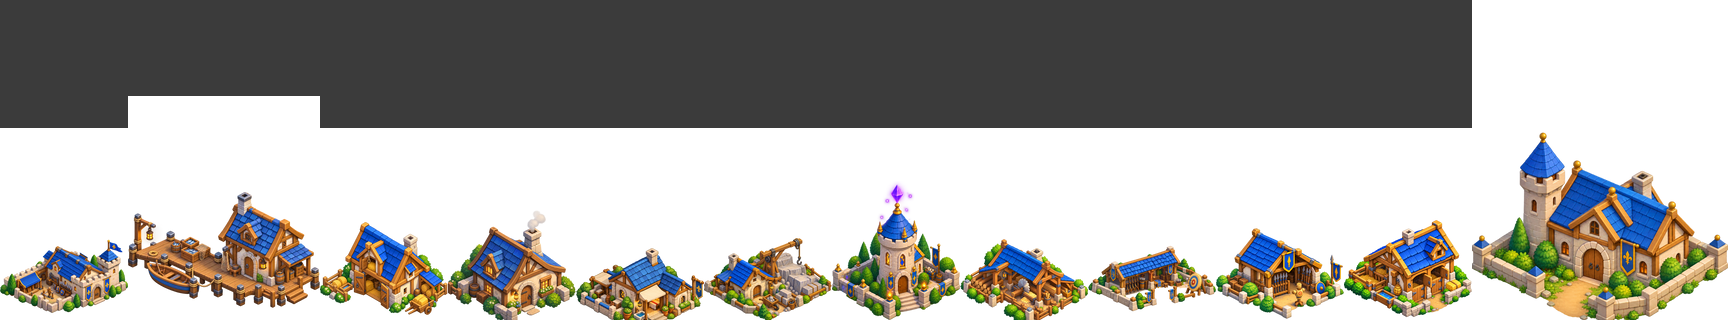
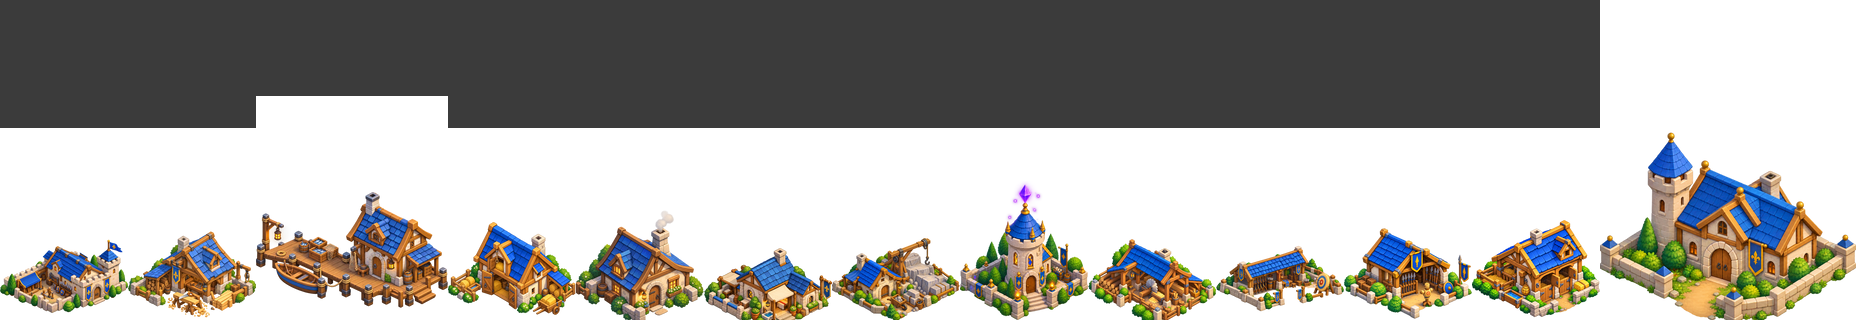
art(city): Carpenter

diff --git a/Docs/art/city/scene.html b/Docs/art/city/scene.html
@@ -46,7 +46,7 @@ code{font-family:ui-monospace,monospace;font-size:.92em}
 </style></head><body class="">
 <header>
   <h1>Kingdom — the isometric city set</h1>
-  <span class="meta">2:1 · tile 128×64 · <strong id="n">12/22</strong> sprites</span>
+  <span class="meta">2:1 · tile 128×64 · <strong id="n">13/22</strong> sprites</span>
   <span class="ctl">
     <button id="m1" aria-pressed="true">Showcase</button>
     <button id="m2" aria-pressed="false">Village</button>
@@ -70,7 +70,7 @@ code{font-family:ui-monospace,monospace;font-size:.92em}
       <figcaption>Barracks<em>1×1</em></figcaption>
     </figure><figure class="card" style="width:150px">
       <div class="slot" style="width:128px;height:192px">
-        <svg class="grid" width="128" height="192"><path class="t on" d="M64 128l64 32l-64 32l-64 -32z"/></svg><div class="miss" style="left:0px;top:128px;width:128px;height:64px"><span>soon</span></div></div>
+        <svg class="grid" width="128" height="192"><path class="t on" d="M64 128l64 32l-64 32l-64 -32z"/></svg><img src="carpenter_l1.png" alt="Carpenter" width="128" height="192"></div>
       <figcaption>Carpenter<em>1×1</em></figcaption>
     </figure><figure class="card" style="width:150px">
       <div class="slot" style="width:128px;height:192px">
@@ -146,7 +146,7 @@ code{font-family:ui-monospace,monospace;font-size:.92em}
       <figcaption>Well<em>1×1 · decoration</em></figcaption>
     </figure></div>
   <div id="v2" hidden><div class="stage" style="width:1688px;height:824px">
-<svg class="grid" width="1688" height="824"><path class="t" d="M844 300l64 32l-64 32l-64 -32z"/><path class="t" d="M780 332l64 32l-64 32l-64 -32z"/><path class="t" d="M716 364l64 32l-64 32l-64 -32z"/><path class="t on" d="M652 396l64 32l-64 32l-64 -32z"/><path class="t" d="M908 332l64 32l-64 32l-64 -32z"/><path class="t on" d="M844 364l64 32l-64 32l-64 -32z"/><path class="t on" d="M780 396l64 32l-64 32l-64 -32z"/><path class="t on" d="M716 428l64 32l-64 32l-64 -32z"/><path class="t" d="M972 364l64 32l-64 32l-64 -32z"/><path class="t on" d="M908 396l64 32l-64 32l-64 -32z"/><path class="t on" d="M844 428l64 32l-64 32l-64 -32z"/><path class="t on" d="M780 460l64 32l-64 32l-64 -32z"/><path class="t" d="M1036 396l64 32l-64 32l-64 -32z"/><path class="t on" d="M972 428l64 32l-64 32l-64 -32z"/><path class="t on" d="M908 460l64 32l-64 32l-64 -32z"/><path class="t" d="M844 492l64 32l-64 32l-64 -32z"/><path class="t" d="M908 204l64 32l-64 32l-64 -32z"/><path class="t" d="M844 236l64 32l-64 32l-64 -32z"/><path class="t on" d="M780 268l64 32l-64 32l-64 -32z"/><path class="t" d="M972 236l64 32l-64 32l-64 -32z"/><path class="t on" d="M908 268l64 32l-64 32l-64 -32z"/><path class="t" d="M1036 268l64 32l-64 32l-64 -32z"/><path class="t on" d="M972 300l64 32l-64 32l-64 -32z"/><path class="t" d="M1100 300l64 32l-64 32l-64 -32z"/><path class="t on" d="M1036 332l64 32l-64 32l-64 -32z"/><path class="t" d="M1164 332l64 32l-64 32l-64 -32z"/><path class="t" d="M1100 364l64 32l-64 32l-64 -32z"/><path class="t" d="M780 204l64 32l-64 32l-64 -32z"/><path class="t" d="M716 236l64 32l-64 32l-64 -32z"/><path class="t" d="M652 268l64 32l-64 32l-64 -32z"/><path class="t on" d="M716 300l64 32l-64 32l-64 -32z"/><path class="t" d="M588 300l64 32l-64 32l-64 -32z"/><path class="t" d="M652 332l64 32l-64 32l-64 -32z"/><path class="t" d="M1164 396l64 32l-64 32l-64 -32z"/><path class="t on" d="M1100 428l64 32l-64 32l-64 -32z"/><path class="t on" d="M1036 460l64 32l-64 32l-64 -32z"/><path class="t" d="M1228 428l64 32l-64 32l-64 -32z"/><path class="t" d="M1164 460l64 32l-64 32l-64 -32z"/><path class="t" d="M1100 492l64 32l-64 32l-64 -32z"/><path class="t on" d="M972 492l64 32l-64 32l-64 -32z"/><path class="t" d="M908 524l64 32l-64 32l-64 -32z"/><path class="t" d="M1036 524l64 32l-64 32l-64 -32z"/><path class="t" d="M972 556l64 32l-64 32l-64 -32z"/><path class="t on" d="M524 332l64 32l-64 32l-64 -32z"/><path class="t" d="M460 364l64 32l-64 32l-64 -32z"/><path class="t" d="M396 396l64 32l-64 32l-64 -32z"/><path class="t" d="M588 364l64 32l-64 32l-64 -32z"/><path class="t on" d="M524 396l64 32l-64 32l-64 -32z"/><path class="t" d="M460 428l64 32l-64 32l-64 -32z"/><path class="t" d="M588 428l64 32l-64 32l-64 -32z"/><path class="t" d="M524 460l64 32l-64 32l-64 -32z"/><path class="t" d="M716 492l64 32l-64 32l-64 -32z"/><path class="t on" d="M652 524l64 32l-64 32l-64 -32z"/><path class="t on" d="M780 524l64 32l-64 32l-64 -32z"/><path class="t" d="M716 556l64 32l-64 32l-64 -32z"/><path class="t" d="M844 556l64 32l-64 32l-64 -32z"/><path class="t" d="M780 588l64 32l-64 32l-64 -32z"/><path class="t on" d="M460 492l64 32l-64 32l-64 -32z"/><path class="t" d="M652 460l64 32l-64 32l-64 -32z"/><path class="t on" d="M588 492l64 32l-64 32l-64 -32z"/><path class="t" d="M524 524l64 32l-64 32l-64 -32z"/><path class="t" d="M588 556l64 32l-64 32l-64 -32z"/><path class="t on" d="M652 588l64 32l-64 32l-64 -32z"/><path class="t" d="M524 588l64 32l-64 32l-64 -32z"/><path class="t" d="M588 620l64 32l-64 32l-64 -32z"/><path class="t on" d="M716 620l64 32l-64 32l-64 -32z"/><path class="t" d="M652 652l64 32l-64 32l-64 -32z"/><path class="t" d="M844 620l64 32l-64 32l-64 -32z"/><path class="t" d="M780 652l64 32l-64 32l-64 -32z"/><path class="t" d="M716 684l64 32l-64 32l-64 -32z"/><path class="t" d="M396 460l64 32l-64 32l-64 -32z"/><path class="t" d="M332 492l64 32l-64 32l-64 -32z"/><path class="t" d="M396 524l64 32l-64 32l-64 -32z"/><path class="t" d="M460 556l64 32l-64 32l-64 -32z"/><path class="t" d="M1292 460l64 32l-64 32l-64 -32z"/><path class="t on" d="M1228 492l64 32l-64 32l-64 -32z"/><path class="t" d="M1164 524l64 32l-64 32l-64 -32z"/><path class="t" d="M1356 492l64 32l-64 32l-64 -32z"/><path class="t" d="M1292 524l64 32l-64 32l-64 -32z"/><path class="t" d="M1228 556l64 32l-64 32l-64 -32z"/><path class="t on" d="M1100 556l64 32l-64 32l-64 -32z"/><path class="t" d="M1036 588l64 32l-64 32l-64 -32z"/><path class="t" d="M1164 588l64 32l-64 32l-64 -32z"/><path class="t" d="M1100 620l64 32l-64 32l-64 -32z"/><path class="t" d="M908 588l64 32l-64 32l-64 -32z"/><path class="t on" d="M972 620l64 32l-64 32l-64 -32z"/><path class="t" d="M908 652l64 32l-64 32l-64 -32z"/><path class="t" d="M1036 652l64 32l-64 32l-64 -32z"/><path class="t" d="M972 684l64 32l-64 32l-64 -32z"/><path class="t" d="M1292 332l64 32l-64 32l-64 -32z"/><path class="t" d="M1228 364l64 32l-64 32l-64 -32z"/><path class="t" d="M1356 364l64 32l-64 32l-64 -32z"/><path class="t on" d="M1292 396l64 32l-64 32l-64 -32z"/><path class="t" d="M1420 396l64 32l-64 32l-64 -32z"/><path class="t" d="M1356 428l64 32l-64 32l-64 -32z"/><path class="t" d="M460 236l64 32l-64 32l-64 -32z"/><path class="t" d="M396 268l64 32l-64 32l-64 -32z"/><path class="t" d="M332 300l64 32l-64 32l-64 -32z"/><path class="t" d="M524 268l64 32l-64 32l-64 -32z"/><path class="t on" d="M460 300l64 32l-64 32l-64 -32z"/><path class="t" d="M396 332l64 32l-64 32l-64 -32z"/><path class="t" d="M268 332l64 32l-64 32l-64 -32z"/><path class="t" d="M204 364l64 32l-64 32l-64 -32z"/><path class="t" d="M140 396l64 32l-64 32l-64 -32z"/><path class="t" d="M76 428l64 32l-64 32l-64 -32z"/><path class="t" d="M332 364l64 32l-64 32l-64 -32z"/><path class="t on" d="M268 396l64 32l-64 32l-64 -32z"/><path class="t on" d="M204 428l64 32l-64 32l-64 -32z"/><path class="t" d="M140 460l64 32l-64 32l-64 -32z"/><path class="t on" d="M332 428l64 32l-64 32l-64 -32z"/><path class="t on" d="M268 460l64 32l-64 32l-64 -32z"/><path class="t" d="M204 492l64 32l-64 32l-64 -32z"/><path class="t" d="M268 524l64 32l-64 32l-64 -32z"/><path class="t" d="M1484 428l64 32l-64 32l-64 -32z"/><path class="t on" d="M1420 460l64 32l-64 32l-64 -32z"/><path class="t" d="M1548 460l64 32l-64 32l-64 -32z"/><path class="t on" d="M1484 492l64 32l-64 32l-64 -32z"/><path class="t" d="M1420 524l64 32l-64 32l-64 -32z"/><path class="t" d="M1612 492l64 32l-64 32l-64 -32z"/><path class="t" d="M1548 524l64 32l-64 32l-64 -32z"/><path class="t" d="M1484 556l64 32l-64 32l-64 -32z"/></svg><figure style="left:844px;top:140px;width:128px"><img src="housing_l1.png" alt="Housing" width="128" height="192"></figure><figure style="left:716px;top:140px;width:128px"><img src="housing_l1.png" alt="Housing" width="128" height="192"></figure><figure style="left:908px;top:172px;width:128px"><img src="housing_l1.png" alt="Housing" width="128" height="192"></figure><figure style="left:652px;top:172px;width:128px"><img src="housing_l1.png" alt="Housing" width="128" height="192"></figure><figure style="left:396px;top:172px;width:192px"><img src="docks_l1.png" alt="Docks" width="192" height="224"></figure><figure style="left:972px;top:204px;width:128px"><img src="housing_l1.png" alt="Housing" width="128" height="192"></figure><figure style="left:716px;top:172px;width:256px"><img src="townhall_l1.png" alt="Townhall" width="256" height="320"></figure><figure style="left:460px;top:268px;width:128px"><img src="quarry_l1.png" alt="Quarry" width="128" height="192"></figure><div class="miss" style="left:1228px;top:396px;width:128px;height:64px"><span>Rune Carver</span></div><div class="miss" style="left:140px;top:396px;width:256px;height:128px"><span>Shrine</span></div><div class="miss" style="left:588px;top:396px;width:128px;height:64px"><span>Garden</span></div><figure style="left:1036px;top:300px;width:128px"><img src="farm_l1.png" alt="Farm" width="128" height="192"></figure><div class="miss" style="left:844px;top:428px;width:256px;height:128px"><span>Plaza</span></div><div class="miss" style="left:652px;top:428px;width:128px;height:64px"><span>Statue</span></div><div class="miss" style="left:1356px;top:460px;width:192px;height:96px"><span>Orchard</span></div><div class="miss" style="left:716px;top:460px;width:128px;height:64px"><span>Well</span></div><figure style="left:908px;top:364px;width:128px"><img src="sawmill_l1.png" alt="Sawmill" width="128" height="192"></figure><figure style="left:524px;top:364px;width:128px"><img src="barracks_l1.png" alt="Barracks" width="128" height="192"></figure><figure style="left:396px;top:364px;width:128px"><img src="infirmary_l1.png" alt="Infirmary" width="128" height="192"></figure><div class="miss" style="left:1164px;top:492px;width:128px;height:64px"><span>Carpenter</span></div><figure style="left:716px;top:396px;width:128px"><img src="sanctum_l1.png" alt="Sanctum" width="128" height="192"></figure><figure style="left:588px;top:396px;width:128px"><img src="spear_hall_l1.png" alt="Spear Hall" width="128" height="192"></figure><div class="miss" style="left:1036px;top:556px;width:128px;height:64px"><span>Mason's Yard</span></div><figure style="left:588px;top:460px;width:128px"><img src="shooting_grounds_l1.png" alt="Shooting Grounds" width="128" height="192"></figure><figure style="left:652px;top:492px;width:128px"><img src="stables_l1.png" alt="Stables" width="128" height="192"></figure><div class="miss" style="left:908px;top:620px;width:128px;height:64px"><span>Smelter</span></div></div></div>
+<svg class="grid" width="1688" height="824"><path class="t" d="M844 300l64 32l-64 32l-64 -32z"/><path class="t" d="M780 332l64 32l-64 32l-64 -32z"/><path class="t" d="M716 364l64 32l-64 32l-64 -32z"/><path class="t on" d="M652 396l64 32l-64 32l-64 -32z"/><path class="t" d="M908 332l64 32l-64 32l-64 -32z"/><path class="t on" d="M844 364l64 32l-64 32l-64 -32z"/><path class="t on" d="M780 396l64 32l-64 32l-64 -32z"/><path class="t on" d="M716 428l64 32l-64 32l-64 -32z"/><path class="t" d="M972 364l64 32l-64 32l-64 -32z"/><path class="t on" d="M908 396l64 32l-64 32l-64 -32z"/><path class="t on" d="M844 428l64 32l-64 32l-64 -32z"/><path class="t on" d="M780 460l64 32l-64 32l-64 -32z"/><path class="t" d="M1036 396l64 32l-64 32l-64 -32z"/><path class="t on" d="M972 428l64 32l-64 32l-64 -32z"/><path class="t on" d="M908 460l64 32l-64 32l-64 -32z"/><path class="t" d="M844 492l64 32l-64 32l-64 -32z"/><path class="t" d="M908 204l64 32l-64 32l-64 -32z"/><path class="t" d="M844 236l64 32l-64 32l-64 -32z"/><path class="t on" d="M780 268l64 32l-64 32l-64 -32z"/><path class="t" d="M972 236l64 32l-64 32l-64 -32z"/><path class="t on" d="M908 268l64 32l-64 32l-64 -32z"/><path class="t" d="M1036 268l64 32l-64 32l-64 -32z"/><path class="t on" d="M972 300l64 32l-64 32l-64 -32z"/><path class="t" d="M1100 300l64 32l-64 32l-64 -32z"/><path class="t on" d="M1036 332l64 32l-64 32l-64 -32z"/><path class="t" d="M1164 332l64 32l-64 32l-64 -32z"/><path class="t" d="M1100 364l64 32l-64 32l-64 -32z"/><path class="t" d="M780 204l64 32l-64 32l-64 -32z"/><path class="t" d="M716 236l64 32l-64 32l-64 -32z"/><path class="t" d="M652 268l64 32l-64 32l-64 -32z"/><path class="t on" d="M716 300l64 32l-64 32l-64 -32z"/><path class="t" d="M588 300l64 32l-64 32l-64 -32z"/><path class="t" d="M652 332l64 32l-64 32l-64 -32z"/><path class="t" d="M1164 396l64 32l-64 32l-64 -32z"/><path class="t on" d="M1100 428l64 32l-64 32l-64 -32z"/><path class="t on" d="M1036 460l64 32l-64 32l-64 -32z"/><path class="t" d="M1228 428l64 32l-64 32l-64 -32z"/><path class="t" d="M1164 460l64 32l-64 32l-64 -32z"/><path class="t" d="M1100 492l64 32l-64 32l-64 -32z"/><path class="t on" d="M972 492l64 32l-64 32l-64 -32z"/><path class="t" d="M908 524l64 32l-64 32l-64 -32z"/><path class="t" d="M1036 524l64 32l-64 32l-64 -32z"/><path class="t" d="M972 556l64 32l-64 32l-64 -32z"/><path class="t on" d="M524 332l64 32l-64 32l-64 -32z"/><path class="t" d="M460 364l64 32l-64 32l-64 -32z"/><path class="t" d="M396 396l64 32l-64 32l-64 -32z"/><path class="t" d="M588 364l64 32l-64 32l-64 -32z"/><path class="t on" d="M524 396l64 32l-64 32l-64 -32z"/><path class="t" d="M460 428l64 32l-64 32l-64 -32z"/><path class="t" d="M588 428l64 32l-64 32l-64 -32z"/><path class="t" d="M524 460l64 32l-64 32l-64 -32z"/><path class="t" d="M716 492l64 32l-64 32l-64 -32z"/><path class="t on" d="M652 524l64 32l-64 32l-64 -32z"/><path class="t on" d="M780 524l64 32l-64 32l-64 -32z"/><path class="t" d="M716 556l64 32l-64 32l-64 -32z"/><path class="t" d="M844 556l64 32l-64 32l-64 -32z"/><path class="t" d="M780 588l64 32l-64 32l-64 -32z"/><path class="t on" d="M460 492l64 32l-64 32l-64 -32z"/><path class="t" d="M652 460l64 32l-64 32l-64 -32z"/><path class="t on" d="M588 492l64 32l-64 32l-64 -32z"/><path class="t" d="M524 524l64 32l-64 32l-64 -32z"/><path class="t" d="M588 556l64 32l-64 32l-64 -32z"/><path class="t on" d="M652 588l64 32l-64 32l-64 -32z"/><path class="t" d="M524 588l64 32l-64 32l-64 -32z"/><path class="t" d="M588 620l64 32l-64 32l-64 -32z"/><path class="t on" d="M716 620l64 32l-64 32l-64 -32z"/><path class="t" d="M652 652l64 32l-64 32l-64 -32z"/><path class="t" d="M844 620l64 32l-64 32l-64 -32z"/><path class="t" d="M780 652l64 32l-64 32l-64 -32z"/><path class="t" d="M716 684l64 32l-64 32l-64 -32z"/><path class="t" d="M396 460l64 32l-64 32l-64 -32z"/><path class="t" d="M332 492l64 32l-64 32l-64 -32z"/><path class="t" d="M396 524l64 32l-64 32l-64 -32z"/><path class="t" d="M460 556l64 32l-64 32l-64 -32z"/><path class="t" d="M1292 460l64 32l-64 32l-64 -32z"/><path class="t on" d="M1228 492l64 32l-64 32l-64 -32z"/><path class="t" d="M1164 524l64 32l-64 32l-64 -32z"/><path class="t" d="M1356 492l64 32l-64 32l-64 -32z"/><path class="t" d="M1292 524l64 32l-64 32l-64 -32z"/><path class="t" d="M1228 556l64 32l-64 32l-64 -32z"/><path class="t on" d="M1100 556l64 32l-64 32l-64 -32z"/><path class="t" d="M1036 588l64 32l-64 32l-64 -32z"/><path class="t" d="M1164 588l64 32l-64 32l-64 -32z"/><path class="t" d="M1100 620l64 32l-64 32l-64 -32z"/><path class="t" d="M908 588l64 32l-64 32l-64 -32z"/><path class="t on" d="M972 620l64 32l-64 32l-64 -32z"/><path class="t" d="M908 652l64 32l-64 32l-64 -32z"/><path class="t" d="M1036 652l64 32l-64 32l-64 -32z"/><path class="t" d="M972 684l64 32l-64 32l-64 -32z"/><path class="t" d="M1292 332l64 32l-64 32l-64 -32z"/><path class="t" d="M1228 364l64 32l-64 32l-64 -32z"/><path class="t" d="M1356 364l64 32l-64 32l-64 -32z"/><path class="t on" d="M1292 396l64 32l-64 32l-64 -32z"/><path class="t" d="M1420 396l64 32l-64 32l-64 -32z"/><path class="t" d="M1356 428l64 32l-64 32l-64 -32z"/><path class="t" d="M460 236l64 32l-64 32l-64 -32z"/><path class="t" d="M396 268l64 32l-64 32l-64 -32z"/><path class="t" d="M332 300l64 32l-64 32l-64 -32z"/><path class="t" d="M524 268l64 32l-64 32l-64 -32z"/><path class="t on" d="M460 300l64 32l-64 32l-64 -32z"/><path class="t" d="M396 332l64 32l-64 32l-64 -32z"/><path class="t" d="M268 332l64 32l-64 32l-64 -32z"/><path class="t" d="M204 364l64 32l-64 32l-64 -32z"/><path class="t" d="M140 396l64 32l-64 32l-64 -32z"/><path class="t" d="M76 428l64 32l-64 32l-64 -32z"/><path class="t" d="M332 364l64 32l-64 32l-64 -32z"/><path class="t on" d="M268 396l64 32l-64 32l-64 -32z"/><path class="t on" d="M204 428l64 32l-64 32l-64 -32z"/><path class="t" d="M140 460l64 32l-64 32l-64 -32z"/><path class="t on" d="M332 428l64 32l-64 32l-64 -32z"/><path class="t on" d="M268 460l64 32l-64 32l-64 -32z"/><path class="t" d="M204 492l64 32l-64 32l-64 -32z"/><path class="t" d="M268 524l64 32l-64 32l-64 -32z"/><path class="t" d="M1484 428l64 32l-64 32l-64 -32z"/><path class="t on" d="M1420 460l64 32l-64 32l-64 -32z"/><path class="t" d="M1548 460l64 32l-64 32l-64 -32z"/><path class="t on" d="M1484 492l64 32l-64 32l-64 -32z"/><path class="t" d="M1420 524l64 32l-64 32l-64 -32z"/><path class="t" d="M1612 492l64 32l-64 32l-64 -32z"/><path class="t" d="M1548 524l64 32l-64 32l-64 -32z"/><path class="t" d="M1484 556l64 32l-64 32l-64 -32z"/></svg><figure style="left:844px;top:140px;width:128px"><img src="housing_l1.png" alt="Housing" width="128" height="192"></figure><figure style="left:716px;top:140px;width:128px"><img src="housing_l1.png" alt="Housing" width="128" height="192"></figure><figure style="left:908px;top:172px;width:128px"><img src="housing_l1.png" alt="Housing" width="128" height="192"></figure><figure style="left:652px;top:172px;width:128px"><img src="housing_l1.png" alt="Housing" width="128" height="192"></figure><figure style="left:396px;top:172px;width:192px"><img src="docks_l1.png" alt="Docks" width="192" height="224"></figure><figure style="left:972px;top:204px;width:128px"><img src="housing_l1.png" alt="Housing" width="128" height="192"></figure><figure style="left:716px;top:172px;width:256px"><img src="townhall_l1.png" alt="Townhall" width="256" height="320"></figure><figure style="left:460px;top:268px;width:128px"><img src="quarry_l1.png" alt="Quarry" width="128" height="192"></figure><div class="miss" style="left:1228px;top:396px;width:128px;height:64px"><span>Rune Carver</span></div><div class="miss" style="left:140px;top:396px;width:256px;height:128px"><span>Shrine</span></div><div class="miss" style="left:588px;top:396px;width:128px;height:64px"><span>Garden</span></div><figure style="left:1036px;top:300px;width:128px"><img src="farm_l1.png" alt="Farm" width="128" height="192"></figure><div class="miss" style="left:844px;top:428px;width:256px;height:128px"><span>Plaza</span></div><div class="miss" style="left:652px;top:428px;width:128px;height:64px"><span>Statue</span></div><div class="miss" style="left:1356px;top:460px;width:192px;height:96px"><span>Orchard</span></div><div class="miss" style="left:716px;top:460px;width:128px;height:64px"><span>Well</span></div><figure style="left:908px;top:364px;width:128px"><img src="sawmill_l1.png" alt="Sawmill" width="128" height="192"></figure><figure style="left:524px;top:364px;width:128px"><img src="barracks_l1.png" alt="Barracks" width="128" height="192"></figure><figure style="left:396px;top:364px;width:128px"><img src="infirmary_l1.png" alt="Infirmary" width="128" height="192"></figure><figure style="left:1164px;top:364px;width:128px"><img src="carpenter_l1.png" alt="Carpenter" width="128" height="192"></figure><figure style="left:716px;top:396px;width:128px"><img src="sanctum_l1.png" alt="Sanctum" width="128" height="192"></figure><figure style="left:588px;top:396px;width:128px"><img src="spear_hall_l1.png" alt="Spear Hall" width="128" height="192"></figure><div class="miss" style="left:1036px;top:556px;width:128px;height:64px"><span>Mason's Yard</span></div><figure style="left:588px;top:460px;width:128px"><img src="shooting_grounds_l1.png" alt="Shooting Grounds" width="128" height="192"></figure><figure style="left:652px;top:492px;width:128px"><img src="stables_l1.png" alt="Stables" width="128" height="192"></figure><div class="miss" style="left:908px;top:620px;width:128px;height:64px"><span>Smelter</span></div></div></div>
 </main>
 <footer>
   Every sprite is placed with the renderer's own formula —
